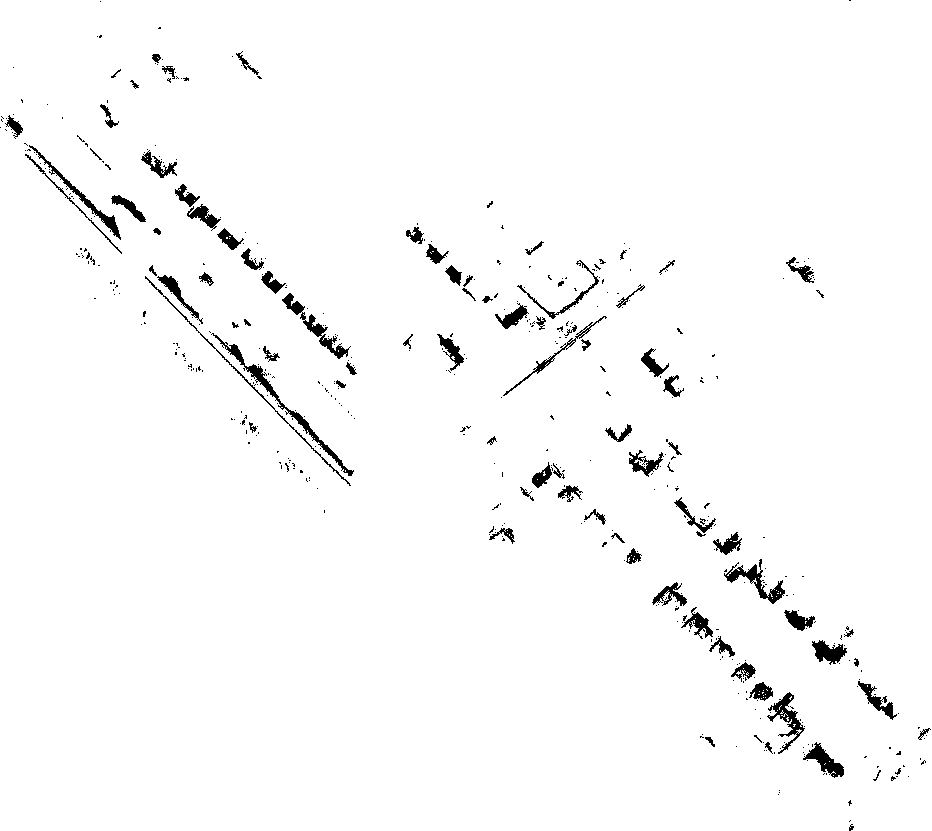
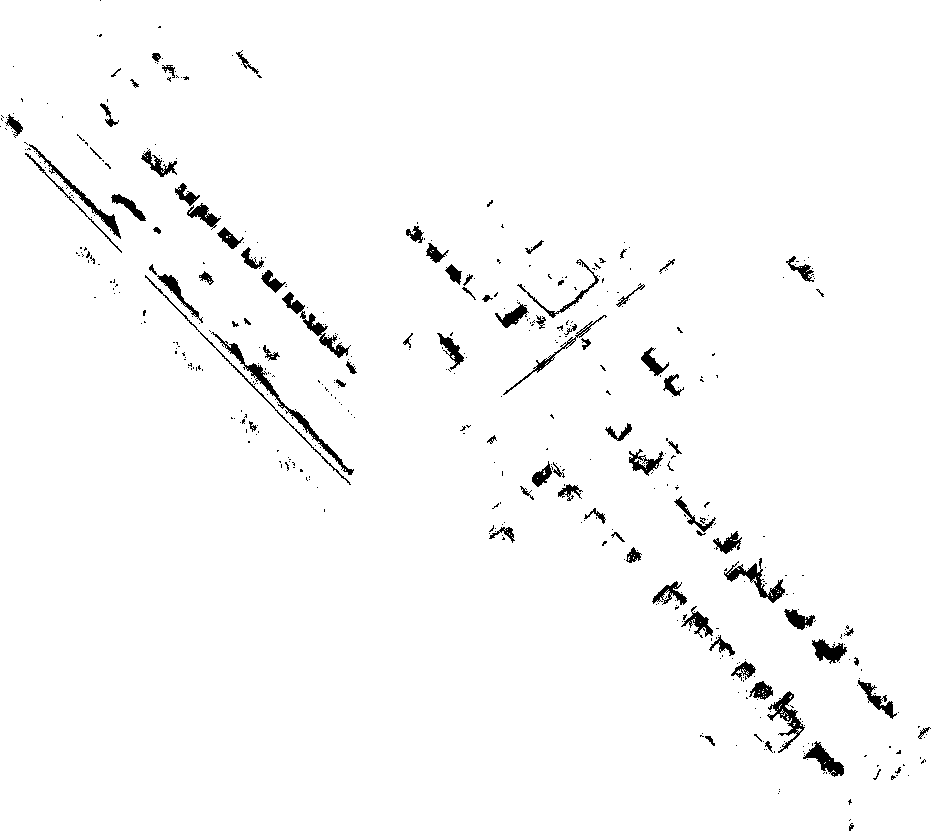
centers adjusted

diff --git a/CreateVoxels.py b/CreateVoxels.py
@@ -122,9 +122,10 @@ def createBlob(voxels_path):
     
     xMin = min(voxels3D_flat_6[:,0])
     yMin = min(voxels3D_flat_6[:,1])
+    yMax = max(voxels3D_flat_6[:,1])
     
-    xs = np.array((voxels3D_flat_6[:,0]-xMin)/config.voxel_size, dtype = int)
-    ys = np.array((voxels3D_flat_6[:,1]-yMin)/config.voxel_size, dtype = int)  * -1         # Miltuplying by -1 because the origin of an image is at the top left corner
+    xs = np.array((voxels3D_flat_6[:,0]-xMin)*2, dtype = int)
+    ys = np.array((voxels3D_flat_6[:,1]-yMin)*2, dtype = int)
     
     ost.write_ply(join(config.folder_path_out,"voxels2Dessay.ply"), voxels3D_flat_6, ["x","y","building"])
     
@@ -142,14 +143,14 @@ def createBlob(voxels_path):
     for i in np.arange(num_points-1):
         pixels[xs[i], ys[i]] = (0, 0, 0)  # Set point cloud color (black)
         
-    image.save(join(config.folder_path_out,"blob.png"), 'PNG')
+    image.save(join(config.folder_path_out,"blob.png"), 'PNG')      # The image will be mirrored because the origin of the image is at the top left corner
     
     return join(config.folder_path_out,"blob.png"), xMin, yMin
 
 
 def findCenters(img_path):
     config = Config
-    img_path = join(config.folder_path_out,"blob.png")
+    #img_path = join(config.folder_path_out,"blob.png")
     # read image through command line
     inputImage = cv2.imread(img_path)
     inputCopy = inputImage.copy()
@@ -161,7 +162,7 @@ def findCenters(img_path):
     kernelSize = (1, 1)
     
     # Set operation iterations:
-    opIterations = 10
+    opIterations = 5
     
     # Get the structuring element:
     morphKernel = cv2.getStructuringElement(cv2.MORPH_RECT, kernelSize)
@@ -173,15 +174,17 @@ def findCenters(img_path):
     # Find the contours on the binary image:
     contours, _ = cv2.findContours(dilateImage, cv2.RETR_EXTERNAL, cv2.CHAIN_APPROX_SIMPLE)
     
-    ratioWH = 0.2
+    ratioWH = 0.5
     
     # Look for the outer bounding boxes (no children):
     for _, cnt in enumerate(contours):
         area = cv2.contourArea(cnt)
         rect = cv2.minAreaRect(cnt)     # returns (x_center, y_center), (width, height), theta
         (x_center, y_center), (width, height), theta = rect
+        peri = cv2.arcLength(cnt, True) 
         
-        if (55 < area < 900) and height != 0 and (ratioWH < abs(width/height) < 1/ratioWH):
+        if (125 < area < 3000) and height != 0 and (ratioWH < abs(width/height) < 1/ratioWH):
+        # if height != 0:
             box0 = cv2.boxPoints(rect)
             box = np.rint(box0).astype(int)
             
@@ -193,9 +196,10 @@ def findCenters(img_path):
             cv2.drawContours(inputCopy,[box],0,(0,0,255),2)
             
     # Uncomment to visialize
-    # cv2.imshow("Bounding Rectangles", inputCopy)
-    # cv2.waitKey()
-    # cv2.destroyAllWindows()
+    # Note that the image will be mirrored because the origin of the image is at the top left corner
+    cv2.imshow("Bounding Rectangles", inputCopy)
+    cv2.waitKey()
+    cv2.destroyAllWindows()
     
     return np.asarray(centroids).astype(float)
 
@@ -204,11 +208,10 @@ def centroidsImgToPnt(centroids_img, xMin, yMin):
     config = Config
     
     centroids_pnt = centroids_img.copy()
+    centroids_pnt[:,0] /= 2
+    centroids_pnt[:,1] /= 2
     
-    #centroids_pnt[:,1] *= -1
-    centroids_pnt *= config.voxel_size
-    
-    # centroids_pnt[:,0] += xMin
-    # centroids_pnt[:,1] += yMin
+    centroids_pnt[:,0] += xMin
+    centroids_pnt[:,1] += yMin
     
     return centroids_pnt

diff --git a/Main.py b/Main.py
@@ -56,11 +56,26 @@ if __name__ == "__main__":
     # Create Voxel Grid
     name_scalar = "scalar_pre"
     ply_path_voxels = createVoxels(name_scalar, ply_path_horiz = '/home/willalbert/Documents/GitHub/reverseRayTracing/OUT/building_horiz.ply')
-        
+    
+    
+    from utils import Config
+    from CreateVoxels import createVoxels, createBlob, findCenters, centroidsImgToPnt
+    from ExtractClass import extractClass
+    from ComputeNormals import compute_surface_normals, compute_surface_normals_RG
+    from CheckPerpendicular import checkPerpendicular
+    from RevRayTracing import revRayTracing
+    import OSToolBox as ost
+    from os.path import join
+    import numpy as np
+    from utils import Config as config
+
+    
     if 'ply_path_voxels' not in globals():
         ply_path_voxels = "/home/willalbert/Documents/GitHub/reverseRayTracing/OUT/occGrid.ply"
         
     blob_path, xMin, yMin = createBlob(ply_path_voxels)
+    
+    blob_path = join(config.folder_path_out,"blob.png")
     centroids_img = findCenters(blob_path)          # Centroids in the image. NOT IN THE POINT CLOUD
     centroids_pnt = centroidsImgToPnt(centroids_img, xMin, yMin)
     
